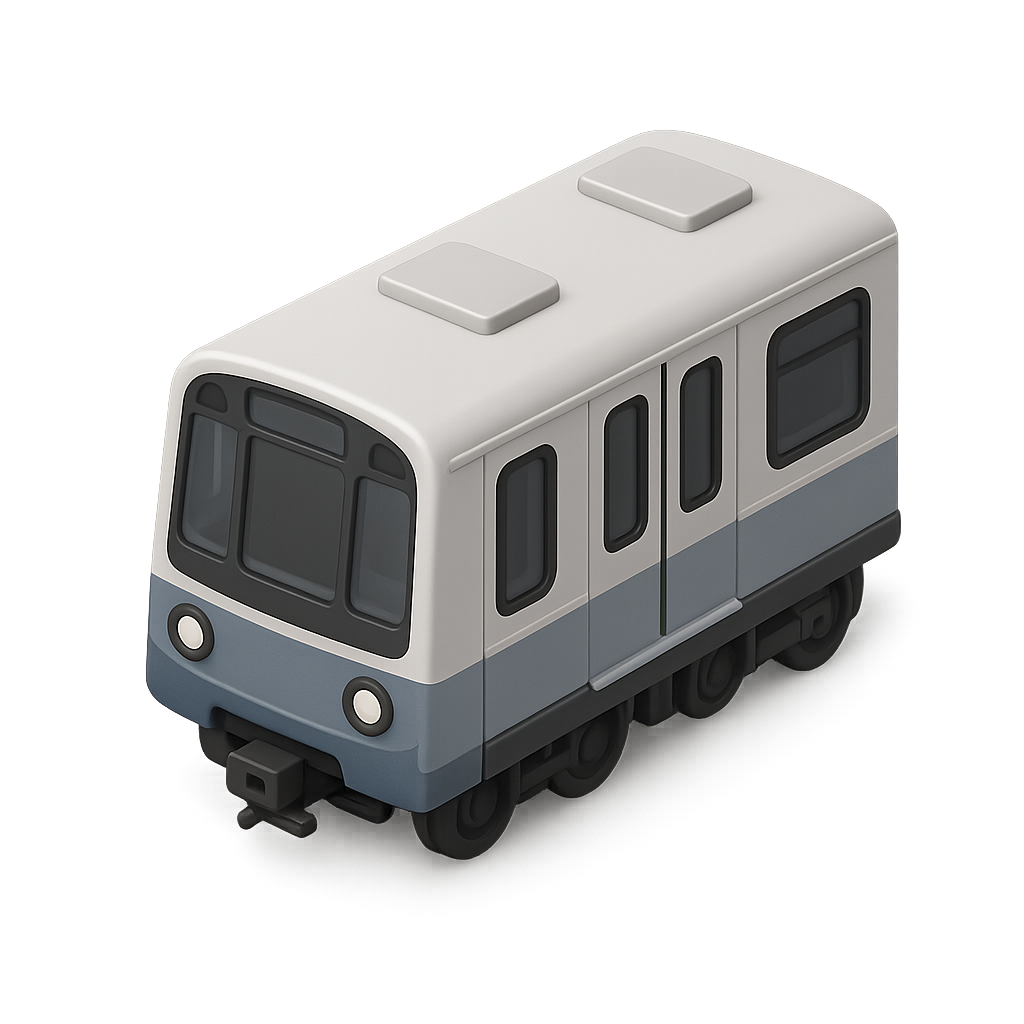
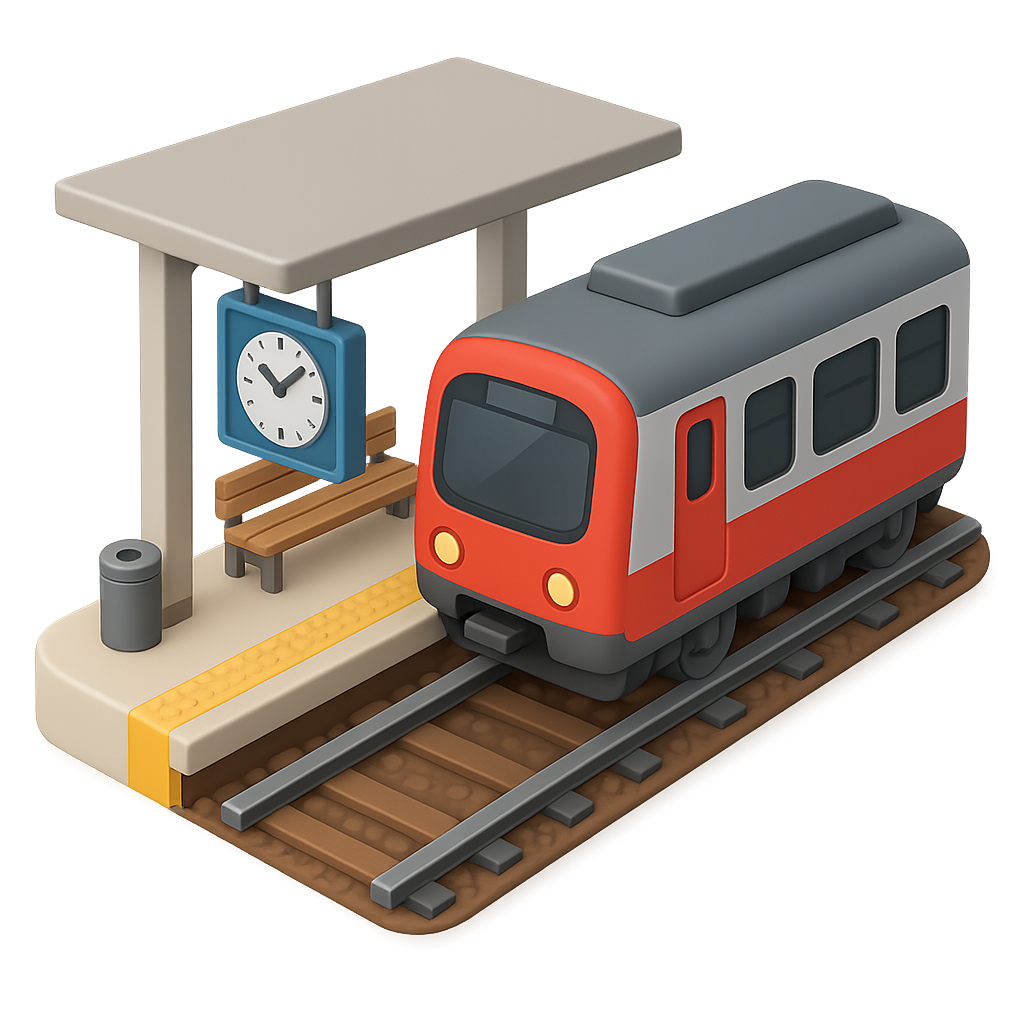
edit edit sus

diff --git a/IE25.html b/IE25.html
@@ -38,7 +38,7 @@
             <button class="tag" data-value="NETX"><img src="Assets/app icon/icon_popcorn.png"><p>Netflix</p></button>
             <button class="tag" data-value="AISP"><img src="Assets/app icon/icon_phone.png"><p>เบอร์มือถือ</p></button>
             <button class="tag" data-value="FIBE"><img src="Assets/app icon/icon_fiber.png"><p>เน็ตบ้าน</p></button>
-            <button class="tag" data-value="BTST"><img src="Assets/app icon/icon_train.png"><p>เติมเที่ยว (BTS)</p></button>
+            <button class="tag" data-value="BTST"><img src="Assets/app icon/icon_skytrain.png"><p>เติมเที่ยว (BTS)</p></button>
             <button class="tag" data-value="GRAB"><img src="Assets/app icon/icon_grab.png"><p>GrabBike วิน</p></button>
             <button class="tag" data-value="BUST"><img src="Assets/app icon/icon_bus.png"><p>รถเมล์</p></button>
             <button class="tag" data-value="TAXI"><img src="Assets/app icon/icon_taxi.png"><p>Taxi</p></button>
@@ -57,6 +57,12 @@
             <button class="tag" data-value="STAT"><img src="Assets/app icon/icon_stationary.png"><p>เครื่องเขียน</p></button>
             <button class="tag" data-value="SNAC"><img src="Assets/app icon/icon_snack.png"><p>ขนมขบเคี้ยว</p></button>
             <button class="tag" data-value="MOVI"><img src="Assets/app icon/icon_movie.png"><p>ดูหนัง</p></button>
+            <button class="tag" data-value="HAIR"><img src="Assets/app icon/icon_Barbershop.png"><p>ตัดผม</p></button>
+            <button class="tag" data-value="LOTE"><img src="Assets/app icon/icon_lottery.png"><p>สลากกินแบ่งรัฐบาล</p></button>
+            <button class="tag" data-value="TRAI"><img src="Assets/app icon/icon_train.png"><p>รถไฟ</p></button>
+            <button class="tag" data-value="PLAN"><img src="Assets/app icon/icon_plane.png"><p>เครื่องบิน</p></button>
+            <button class="tag" data-value="CLOT"><img src="Assets/app icon/icon_clothes.png"><p>เสื้อผ้า</p></button>
+            <button class="tag" data-value="GADG"><img src="Assets/app icon/icon_gadget.png"><p>แกดเจ็ด</p></button>
         </div>
         <h5>จำนวนเงิน</h5>
         <div class="money-field"> 

diff --git a/IE25.js b/IE25.js
@@ -10,9 +10,9 @@ const categoryMap = {
   income: ["INCO", "INOT", "FMGM" ,"BONU"],
   food: ["COOK", "DINE", "CELE", "DRNK" ,"COEQ" ,"SNAC"],
   utility: ["WATE", "ELEC", "YOUT" ,"NETX", "AISP" ,"FIBE"],
-  transport: ["BTST", "GRAB", "TAXI", "BUST", "CC10"],
-  personal: ["TSSP", "WDEQ", "ETCM" , "SKIN" ,"STAT"],
-  self: ["WANT", "SAVE", "DEBT", "MFGM" ,"DENT" , "PATI" , "MOVI"]
+  transport: ["BTST", "GRAB", "TAXI", "BUST", "CC10","PLAN","TRAI"],
+  personal: ["TSSP", "WDEQ", "ETCM" , "SKIN" ,"STAT","LOTE","CLOT","GADG"],
+  self: ["WANT", "SAVE", "DEBT", "MFGM" ,"DENT" , "PATI" , "MOVI" ,"HAIR"]
 };
 
 // ================= CODE CONFIG =================
@@ -49,6 +49,13 @@ const codeConfig = {
   MOVI: { type: "expense"},
   SNAC: { type: "expense"},
   STAT: { type: "expense"},
+  HAIR: { type: "expense", value: 200, item: "ตัดผม", from: "ร้าน Barber", amount: "1", unit:"ครั้ง"},
+  LOTE: { type: "expense", value: 80, item: "สลากกินแบ่งฯ", from: "เป๋าตัง", amount: "1", unit:"งวด"},
+  TRAI: { type: "expense"},
+  PLAN: { type: "expense"},
+  GADG: { type: "expense"},
+  CLOT: { type: "expense"},
+
 };
 
 // ================= UNIT MAP =================
